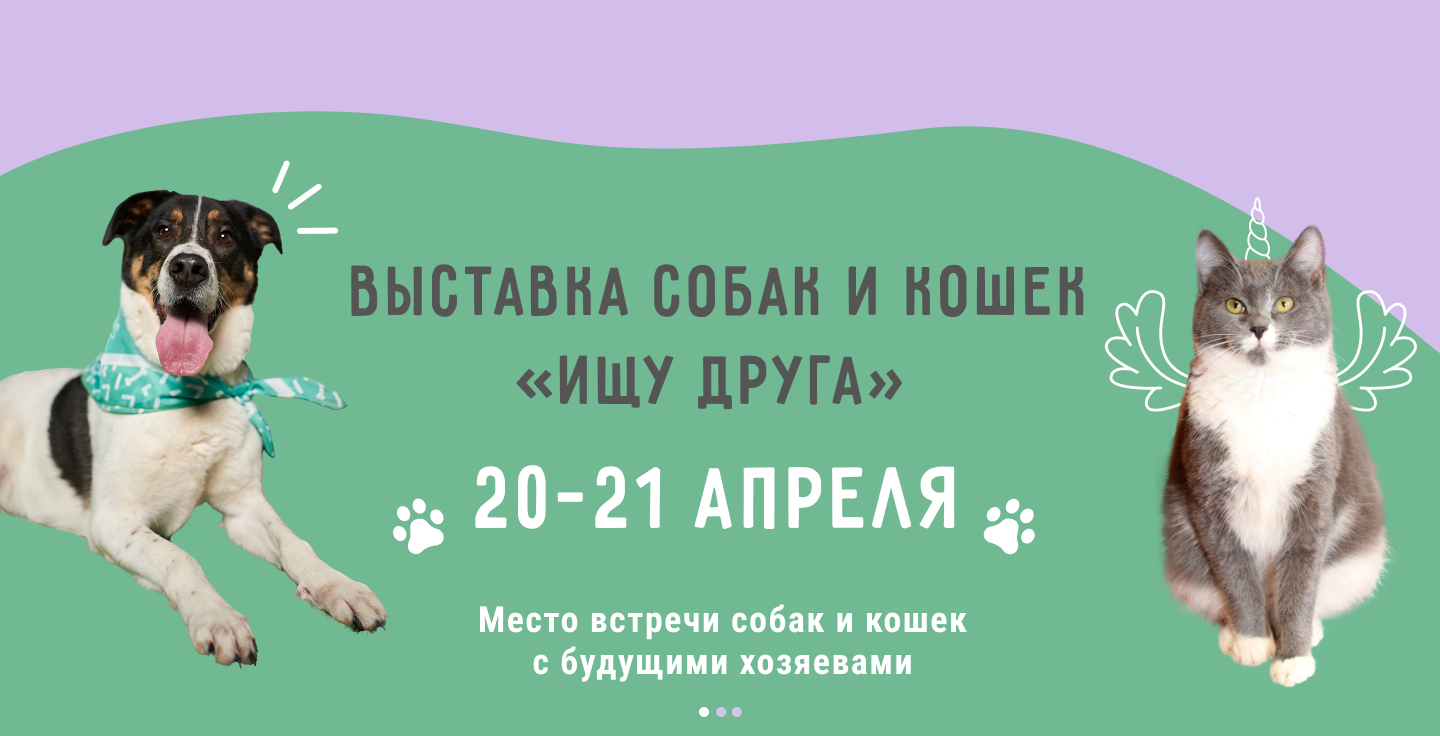
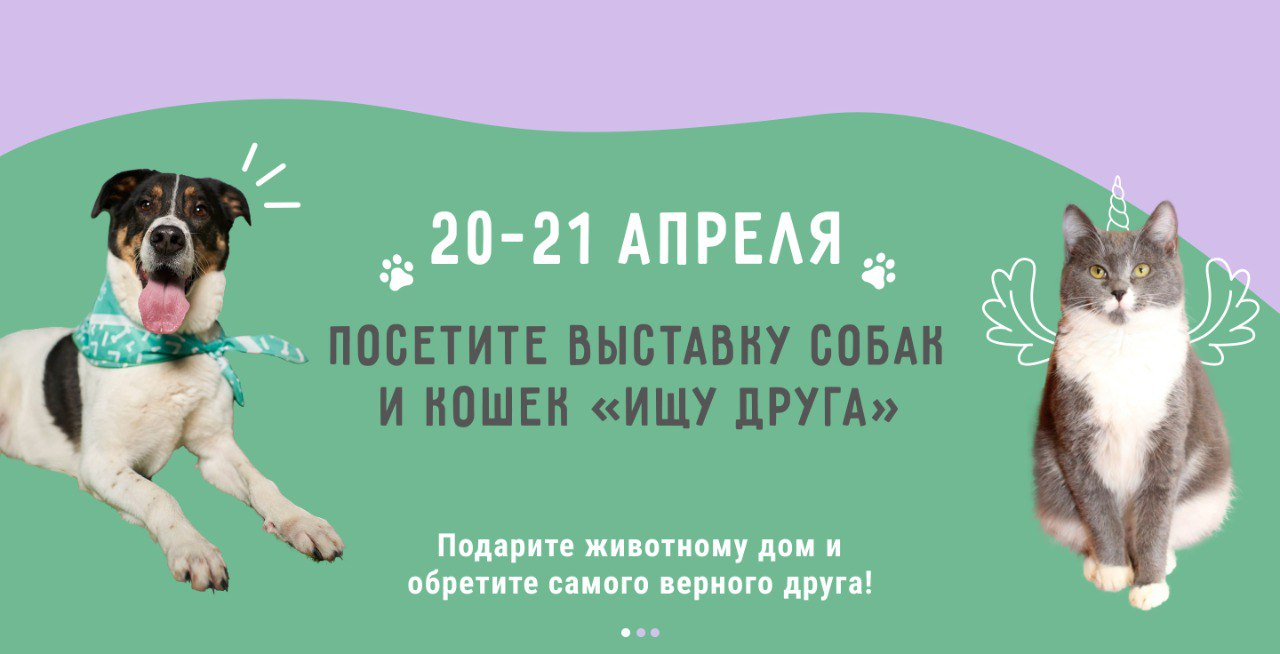
main page edits

Changed region(s): [[0.25, 0.4587, 0.75, 0.7645], [0.2188, 0.3058, 0.75, 0.4587], [0.3125, 0.7951, 0.6875, 0.948]]

diff --git a/dorinvest/static/css/show.css b/dorinvest/static/css/show.css
@@ -3,6 +3,11 @@
     margin-top: -63px;
 }
 
+.content_foto img {
+    max-width: 1440px;
+    width: 100%;
+}
+
 .slider-wrapper {
     margin-top: 200px;
     margin-bottom: 500px;
@@ -21,7 +26,7 @@
     border-radius: 14px;
     width: 490px;
     height: 490px;
-    object-fit: contain;
+    object-fit: cover;
 }
 .slider__animal-description {
     position: absolute;
@@ -201,7 +206,7 @@ form .button {
     margin-top: 130px;
     color: rgb(0, 0, 0);
     font-size: 35px;
-    font-weight: 600;
+    /* font-weight: 600; */
     text-align: left;
     margin-left: 108px;
     font-family: "RobotoCondensed Regular", "Open Sans";
@@ -214,10 +219,9 @@ form .button {
 }
 
 .promo4 > p {
-
     color: rgb(0, 0, 0);
     font-size: 32px;
-    font-weight: 600;
+    /* font-weight: 600; */
     margin-top: -80px;
     margin-right: 108px;
     padding-left: 880px;
@@ -234,7 +238,7 @@ form .button {
     margin-top: 440px;
     color: rgb(0, 0, 0);
     font-size: 32px;
-   font-weight: 600;
+   /* font-weight: 600; */
     text-align: left;
     margin-left: 108px;
     font-family: "RobotoCondensed Regular", "Open Sans";
@@ -250,7 +254,7 @@ form .button {
     margin-top: -75px;
     color: rgb(0, 0, 0);
     font-size: 32px;
-    font-weight: 600;
+    /* font-weight: 600; */
     text-align: right;
     margin-right: 108px;
     font-family: "RobotoCondensed Regular", "Open Sans";
@@ -408,7 +412,7 @@ form .button {
     margin-top: 130px;
     color: #000000;
     font-size: 32px;
-    font-weight: 800;
+    /* font-weight: 800; */
     text-align: left;
     margin-left: 108px;
     font-family: "RobotoCondensed Regular", "Open Sans";
@@ -424,7 +428,7 @@ form .button {
 
     color: #000000;
     font-size: 32px;
-    font-weight: 800;
+    /* font-weight: 800; */
     text-align: left;
     margin-top: 80px;
     margin-left: 808px;
@@ -441,7 +445,7 @@ form .button {
     margin-top: 90px;
     color: #000000;
     font-size: 32px;
-    font-weight: 800;
+    /* font-weight: 800; */
     text-align: left;
     margin-left: 108px;
     font-family: "RobotoCondensed Regular", "Open Sans";
@@ -457,7 +461,7 @@ form .button {
 
     color: #000000;
     font-size: 32px;
-    font-weight: 800;
+    /* font-weight: 800; */
     text-align: left;
     margin-left: 798px;
     margin-top: 80px;
@@ -474,7 +478,7 @@ form .button {
     margin-top: 40px;
    color: #000000;
     font-size: 32px;
-    font-weight: 800;
+    /* font-weight: 800; */
     text-align: left;
     margin-left: 108px;
     font-family: "RobotoCondensed Regular", "Open Sans";
@@ -490,7 +494,7 @@ form .button {
     margin-top: 120px;
     color: #000000;
     font-size: 32px;
-    font-weight: 800;
+    /* font-weight: 800; */
     text-align: left;
     margin-left: 808px;
     font-family: "RobotoCondensed Regular", "Open Sans";

diff --git a/dorinvest/templates/show.html b/dorinvest/templates/show.html
@@ -26,7 +26,7 @@
     </div>
     <div class="promo1">
         <p>“Ищу друга” - это выстовка-пристройства<br>животных из городских приютов<br>“Зеленоград” и “Зоорассвет”,
-            которая<br>состоится в КЦ Зеленоград 6 апреля 2024<br>года. </p>
+            которая<br>состоится в КЦ Зеленоград<br>20 - 21 апреля 2024 года. </p>
     </div>
     <div class="img1">
         <img src="/static/img/dogcat.png" alt="foto">
@@ -85,7 +85,7 @@
             <p><strong>1</strong> Сможете подарить живому существу <br> счастливую жизнь в семье</p>
         </div>
         <div class="promo4">
-            <p><strong>2</strong> Спасёте две жизни, <br> предоставив ещё один шанс на <br> спасение другого животного
+            <p><strong>2</strong> Спасёте сразу две жизни, <br> ведь в приюте освободится <br> место для другого животного
             </p>
         </div>
         <div class="promo5">

diff --git a/dorinvest/templates/base.html b/dorinvest/templates/base.html
@@ -49,8 +49,9 @@
                 <h3>Партнеры выставки</h3>
                 <ul class="footer-sponsors">
                     <li><a href=""><img src="{% static 'img/sponsor1.png' %}" alt="sponsor1"></a></li>
-                    <li><a href=""><img src="{% static 'img/sponsor2.png' %}" alt="sponsor2"></a></li>
                     <li><a href=""><img src="{% static 'img/sponsor3.png' %}" alt="sponsor3"></a></li>
+                    <li><a href=""><img src="{% static 'img/sponsor2.png' %}" alt="sponsor2"></a></li>
+                    
                     <li><a href=""><img src="{% static 'img/sponsor4.png' %}" alt="sponsor3"></a></li>
                 </ul>
             </div>

diff --git a/dorinvest/static/css/base.css b/dorinvest/static/css/base.css
@@ -173,11 +173,11 @@
     display: grid;
     grid-template-columns: repeat(2, 1fr);
     margin-top: 20px;
-    margin-left: 20px;
+    margin-left: 70px;
 }
 .footer-sponsors li {
     display: flex;
-    justify-content: center;
+    justify-content: space-between;
     align-items: center;
 }
 /* --------------- общие темы ---------------- */
